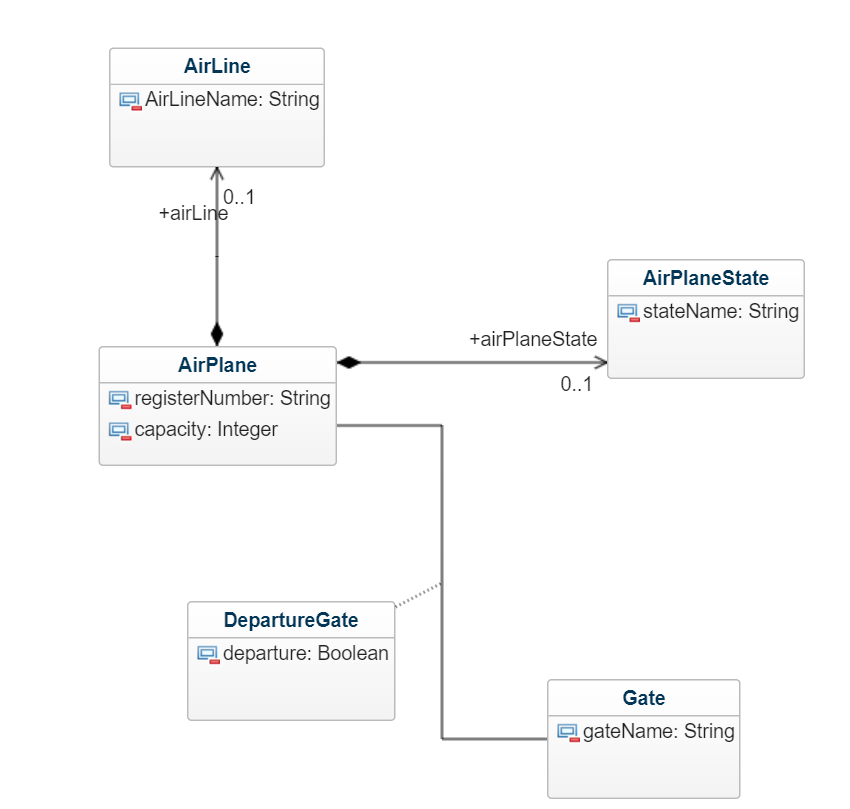
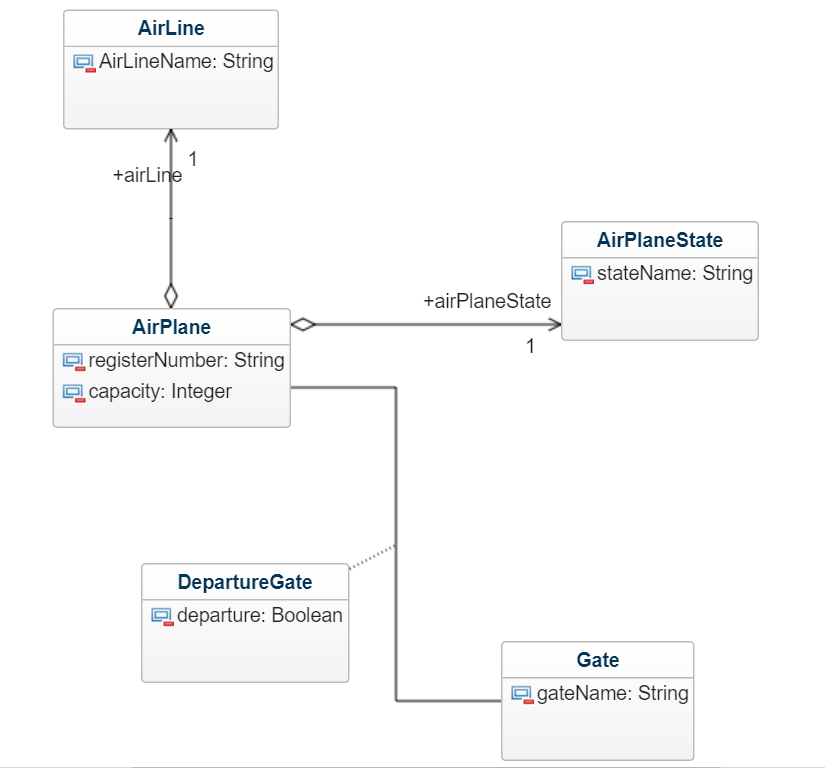
se actualizo el disenio de clases UML y se agrego un nuevo avion

diff --git a/src/main/java/com/managmentairport/datos/AirPlaneData.java b/src/main/java/com/managmentairport/datos/AirPlaneData.java
@@ -17,5 +17,8 @@ public abstract class AirPlaneData {
     airPlanes.add(
         new AirPlane(
             new AirLine("Copa AirLines"), new AirPlaneState("en mantenimiento"), "K-101943", 300));
+    airPlanes.add(
+            new AirPlane(
+                    new AirLine("Avianca"), new AirPlaneState("disponible"), "9898-BB", 100));
   }
 }
